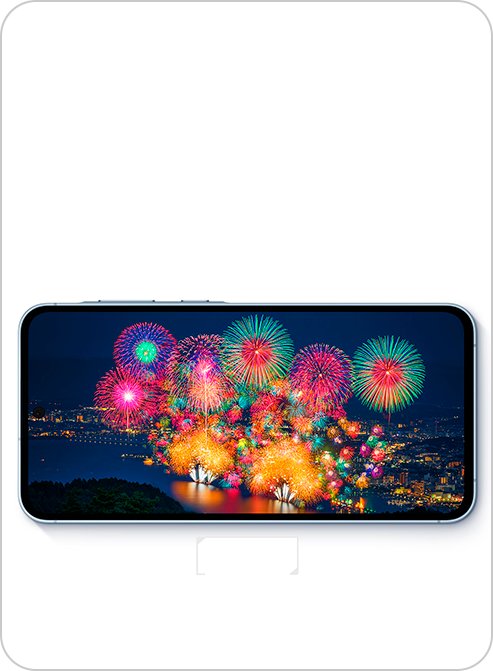
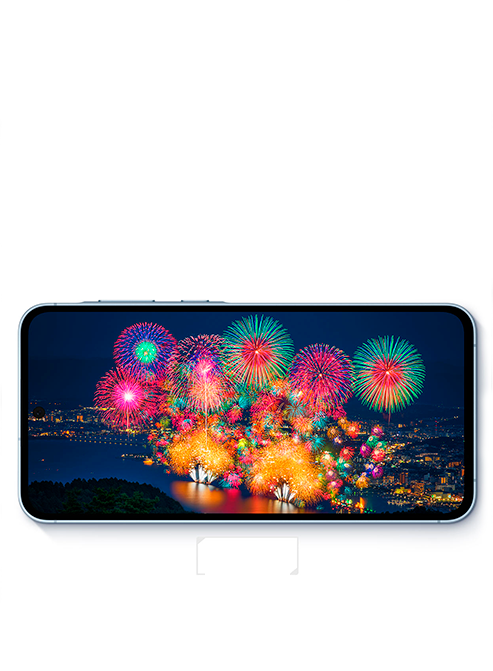
ajuste borda e imagem
imagem ppt14-555g-amoled-geral

Changed region(s): [[0.9128, 0.0, 1.0, 0.9836], [0.0, 0.0, 0.0913, 0.9836], [0.0304, 0.9836, 0.9736, 1.0]]

diff --git a/htmlBase/APK_GERAL/115-produtopaginafeature-galaxyA555G.html b/htmlBase/APK_GERAL/115-produtopaginafeature-galaxyA555G.html
@@ -74,7 +74,7 @@
                 <!-- Primeira Coluna -->
                 <div class="col-md-6 ">
                     <a href="116-produto-feature-1-galaxyA555G.html">
-                        <div class="card bac-verde-claro" style="margin-bottom: 20px;max-height: 48%;">
+                        <div class="card bac-branco" style="margin-bottom: 20px;max-height: 48%;">
                             <div class="card-body respiro-categoria scroll-down bacCategorias d-flex" 
                             style="background: url(assets/img/ppt14-555g-amoled-geral.png) no-repeat;">
                             <h5 class="card-title categoria">Tela ampla de 6.6” <br />Super AMOLED FHD+ <br />com Vision Booster</h5>
@@ -84,7 +84,7 @@
                     </a>
 
                     <a href="117-produto-feature-2-galaxyA555G.html" class="header-links"> 
-                        <div class="card bac-verde-claro" style="margin-bottom: 20px;max-height: 48%;">
+                        <div class="card bac-branco" style="margin-bottom: 20px;max-height: 48%;">
                             <div class="card-body respiro-categoria scroll-down bacCategorias d-flex" 
                             style="background: url(assets/img/ppt14-555g-camera-geral.png) no-repeat;">
                                 <h5 class="card-title categoria color-branco">Câmera Tripla <br />de até 50MP <br />Nightography <br />e Apagador <br />Objetos</h5>                                
@@ -96,7 +96,7 @@
                 <!-- Segunda Coluna -->
                 <div class="col-md-6 ">
                     <a href="118-produto-feature-3-galaxyA555G.html">
-                        <div class="card bac-verde-claro" style="margin-bottom: 20px;max-height: 48%;">
+                        <div class="card bac-branco" style="margin-bottom: 20px;max-height: 48%;">
                             <div class="card-body respiro-categoria scroll-down bacCategorias d-flex" 
                             style="background: url(assets/img/ppt14-555g-design-geral.png) no-repeat;">
                                 <h5 class="card-title categoria color-branco">Design <br />em metal e vidro <br />com resistência <br />a água e a poeira <br />(IP67)</h5>
@@ -105,7 +105,7 @@
                     </a>
 
                     <a href="119-produto-feature-4-galaxyA555G.html">
-                        <div class="card bac-verde-claro" style="margin-bottom: 20px;max-height: 48%;">
+                        <div class="card bac-branco" style="margin-bottom: 20px;max-height: 48%;">
                             <div class="card-body respiro-categoria scroll-down bacCategorias d-flex" 
                             style="background: url(assets/img/ppt14-555g-atualizacao-geral.png) no-repeat;">
                                 <h5 class="card-title categoria">Até 4 atualizações de Android e até <br />5 anos de <br />atualizações <br />de segurança</h5>

diff --git a/htmlBase/APK_GERAL/110-produtopaginafeature-galaxyA355G.html b/htmlBase/APK_GERAL/110-produtopaginafeature-galaxyA355G.html
@@ -74,7 +74,7 @@
                 <!-- Primeira Coluna -->
                 <div class="col-md-6 ">
                     <a href="111-produto-feature-1-galaxyA355G.html">
-                        <div class="card bac-verde-claro" style="margin-bottom: 20px;max-height: 48%;">
+                        <div class="card bac-branco" style="margin-bottom: 20px;max-height: 48%;">
                             <div class="card-body respiro-categoria scroll-down bacCategorias d-flex" 
                             style="background: url(assets/img/ppt14-355g-amoled-geral.png) no-repeat;">
                             <h5 class="card-title categoria">Tela ampla de 6.6” <br />Super AMOLED FHD+ <br />com Vision Booster</h5>
@@ -84,7 +84,7 @@
                     </a>
 
                     <a href="112-produto-feature-2-galaxyA355G.html" class="header-links"> 
-                        <div class="card bac-verde-claro" style="margin-bottom: 20px;max-height: 48%;">
+                        <div class="card bac-branco" style="margin-bottom: 20px;max-height: 48%;">
                             <div class="card-body respiro-categoria scroll-down bacCategorias d-flex" 
                             style="background: url(assets/img/ppt14-355g-camera-geral.png) no-repeat;">
                                 <h5 class="card-title categoria color-branco">Câmera Tripla <br />de até 50MP <br />Nightography <br />e Apagador <br />Objetos</h5>                                
@@ -96,7 +96,7 @@
                 <!-- Segunda Coluna -->
                 <div class="col-md-6 ">
                     <a href="113-produto-feature-3-galaxyA355G.html">
-                        <div class="card bac-verde-claro" style="margin-bottom: 20px;max-height: 48%;">
+                        <div class="card bac-branco" style="margin-bottom: 20px;max-height: 48%;">
                             <div class="card-body respiro-categoria scroll-down bacCategorias d-flex" 
                             style="background: url(assets/img/ppt14-355g-design-geral.png) no-repeat;">
                                 <h5 class="card-title categoria">Design <br />em vidro com <br />resistência a água<br />e a poeira (IP67)</h5>
@@ -105,7 +105,7 @@
                     </a>
 
                     <a href="114-produto-feature-4-galaxyA355G.html">
-                        <div class="card bac-verde-claro" style="margin-bottom: 20px;max-height: 48%;">
+                        <div class="card bac-branco" style="margin-bottom: 20px;max-height: 48%;">
                             <div class="card-body respiro-categoria scroll-down bacCategorias d-flex" 
                             style="background: url(assets/img/ppt14-355g-atualizacao-geral.png) no-repeat;">
                                 <h5 class="card-title categoria">Até 4 atualizações <br />de Android e até 5 anos de <br />atualizações <br />de segurança</h5>
